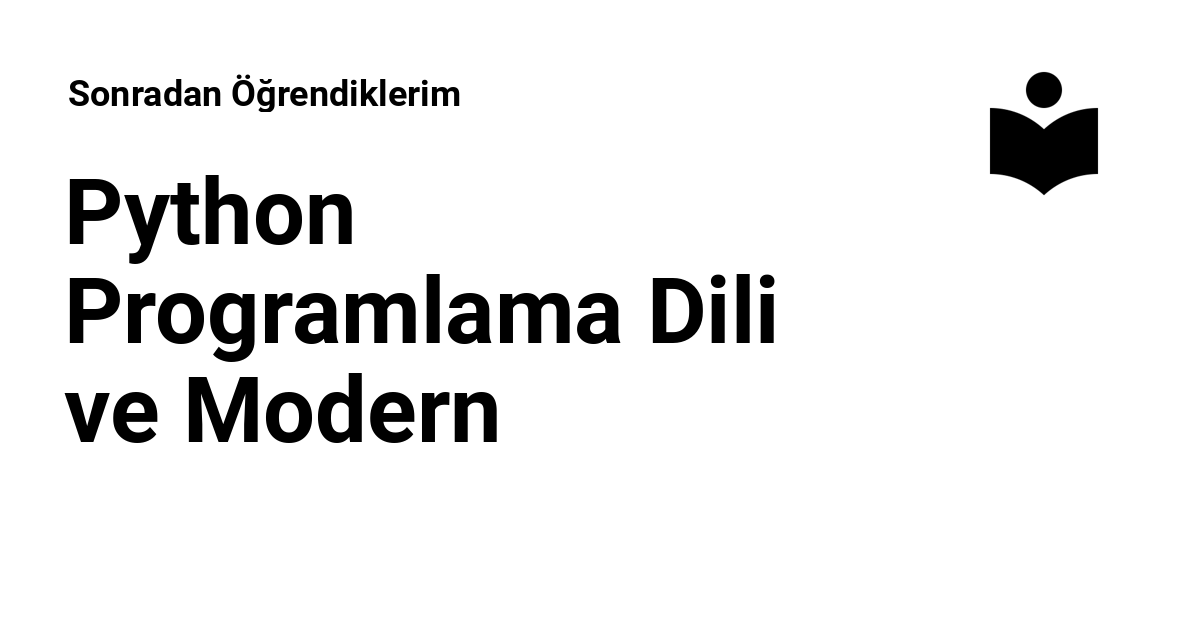
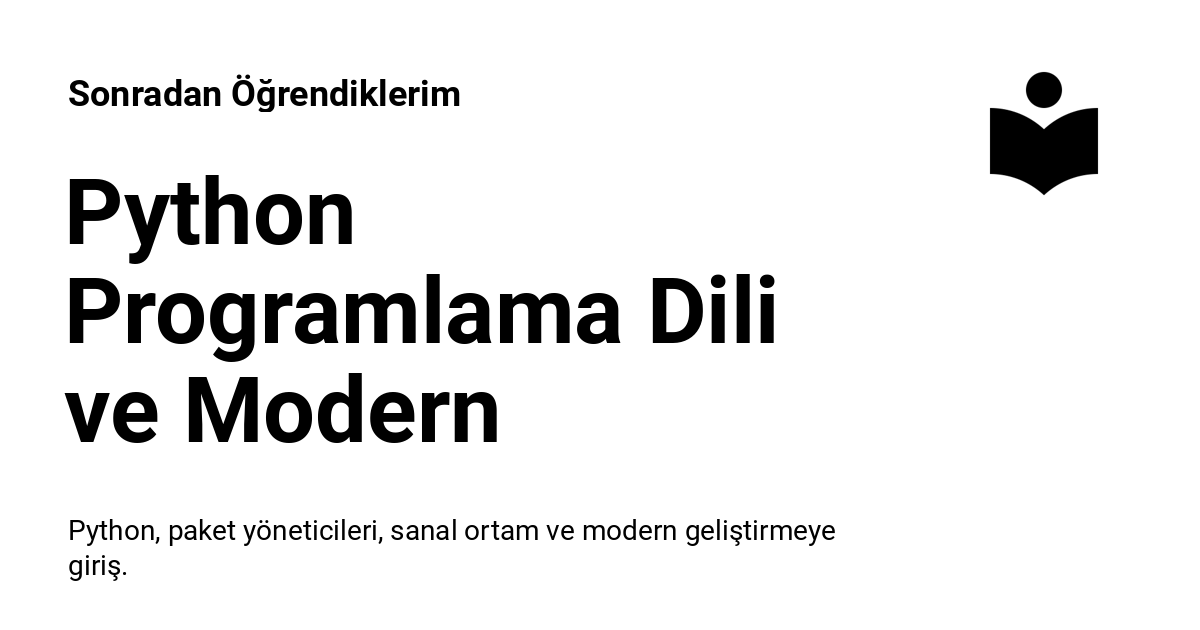
Deployed 5220946 with MkDocs version: 1.5.3

Changed region(s): [[0.0617, 0.8143, 0.7092, 0.9349]]

diff --git a/python/python-ve-modern-gelistirme/index.html b/python/python-ve-modern-gelistirme/index.html
@@ -6,6 +6,8 @@
       <meta charset="utf-8">
       <meta name="viewport" content="width=device-width,initial-scale=1">
       
+        <meta name="description" content="Python, paket yöneticileri, sanal ortam ve modern geliştirmeye giriş.">
+      
       
         <meta name="author" content="Eren Türkay">
       
@@ -76,7 +78,7 @@
       
         <meta  property="og:title"  content="Python Programlama Dili ve Modern Geliştirme - Sonradan Öğrendiklerim" >
       
-        <meta  property="og:description"  content="None" >
+        <meta  property="og:description"  content="Python, paket yöneticileri, sanal ortam ve modern geliştirmeye giriş." >
       
         <meta  property="og:image"  content="https://sonradanogrendiklerim.com/assets/images/social/python/python-ve-modern-gelistirme.png" >
       
@@ -92,7 +94,7 @@
       
         <meta  name="twitter:title"  content="Python Programlama Dili ve Modern Geliştirme - Sonradan Öğrendiklerim" >
       
-        <meta  name="twitter:description"  content="None" >
+        <meta  name="twitter:description"  content="Python, paket yöneticileri, sanal ortam ve modern geliştirmeye giriş." >
       
         <meta  name="twitter:image"  content="https://sonradanogrendiklerim.com/assets/images/social/python/python-ve-modern-gelistirme.png" >
       
